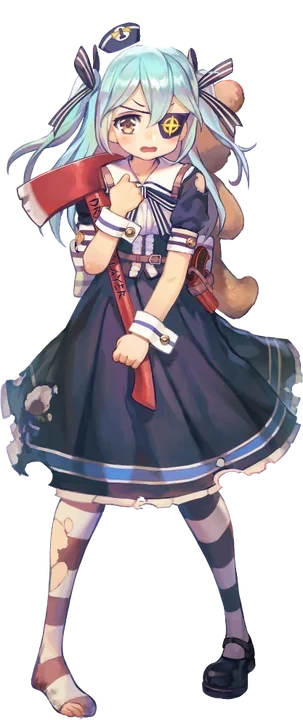
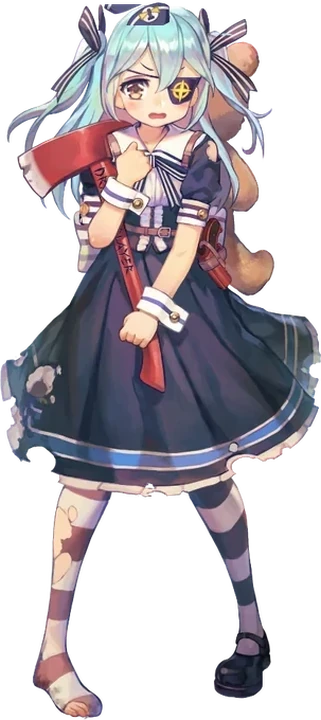
LRL 기본 일러스트: 머리 위에 떠 있던 모자를 원작처럼 머리에 얹음, 캐시 번호 올림

diff --git a/js/formsextra.js b/js/formsextra.js
@@ -2,6 +2,6 @@
 Object.assign(FORMS, {"albatross": {"dam": false, "forms": [{"skin": "NS1", "dam": false, "voice": false, "icon": false}]}, "alexandra": {"dam": false, "forms": [{"skin": "NS2", "dam": false, "voice": false, "icon": false}]}, "constantia": {"dam": false, "forms": [{"skin": "NS0", "dam": false, "voice": false, "icon": false}]}, "erato": {"dam": false, "forms": [{"skin": "NS2", "dam": false, "voice": false, "icon": false}]}, "fallen": {"dam": false, "forms": [{"skin": "RV", "dam": false, "voice": false, "icon": false}]}, "frigga": {"dam": false, "forms": [{"skin": "NS2", "dam": false, "voice": false, "icon": false}]}, "habetrot": {"dam": false, "forms": [{"skin": "NS1", "dam": false, "voice": false, "icon": false}]}, "janghwa": {"dam": false, "forms": [{"skin": "NS1", "dam": false, "voice": false, "icon": false}]}, "khan": {"dam": false, "forms": [{"skin": "NS1", "dam": false, "voice": false, "icon": false}]}, "kunoichizero": {"dam": false, "forms": [{"skin": "NS2", "dam": false, "voice": false, "icon": false}]}, "lrl": {"dam": false, "forms": [{"skin": "NS4", "dam": false, "voice": false, "icon": false}]}, "may": {"dam": false, "forms": [{"skin": "NS2", "dam": false, "voice": false, "icon": false}]}, "mercury": {"dam": false, "forms": [{"skin": "NS1", "dam": false, "voice": false, "icon": false}]}, "muse": {"dam": false, "forms": [{"skin": "NS1", "dam": false, "voice": false, "icon": false}]}, "neodym": {"dam": false, "forms": [{"skin": "NS1", "dam": false, "voice": false, "icon": false}]}, "nightangel": {"dam": false, "forms": [{"skin": "NS2", "dam": false, "voice": false, "icon": false}]}, "pa00el": {"dam": false, "forms": [{"skin": "NS2", "dam": false, "voice": false, "icon": false}]}, "rena": {"dam": false, "forms": [{"skin": "NS1", "dam": false, "voice": false, "icon": false}]}, "salamander": {"dam": false, "forms": [{"skin": "NS1", "dam": false, "voice": false, "icon": false}]}, "saraqael": {"dam": false, "forms": [{"skin": "NS1", "dam": false, "voice": false, "icon": false}]}, "scathy": {"dam": false, "forms": [{"skin": "NS1", "dam": false, "voice": false, "icon": false}]}, "sleipnir": {"dam": false, "forms": [{"skin": "NS2", "dam": false, "voice": false, "icon": false}]}, "sonia": {"dam": false, "forms": [{"skin": "NS1", "dam": false, "voice": false, "icon": false}]}, "stratoangel": {"dam": false, "forms": [{"skin": "NS1", "dam": false, "voice": false, "icon": false}]}});
 Object.assign(FORM_SIZES, {"albatross_1": [720, 719], "alexandra_1": [437, 720], "constantia_1": [449, 720], "erato_1": [225, 720], "fallen_1": [639, 720], "frigga_1": [269, 720], "habetrot_1": [314, 720], "janghwa_1": [577, 720], "khan_1": [321, 720], "kunoichizero_1": [489, 720], "lrl_1": [595, 720], "may_1": [720, 692], "mercury_1": [573, 720], "muse_1": [343, 720], "neodym_1": [581, 720], "nightangel_1": [720, 706], "pa00el_1": [299, 720], "rena_1": [260, 720], "salamander_1": [327, 720], "saraqael_1": [687, 720], "scathy_1": [520, 720], "sleipnir_1": [301, 720], "sonia_1": [323, 720], "stratoangel_1": [717, 720]});
 // 같은 파일명으로 교체한 기본 그림은 캐시를 새로 받는다
-Object.assign(ASSET_REV, {"full/kheshig": 2, "full/cloverace": 2, "full/lemonbeta": 3, "full/ajax": 2, "full/albatross": 2, "full/alexandra": 2, "full/amphitrite": 2, "full/brunhild": 2, "full/constantia": 4, "full/drm": 2, "full/erato": 2, "full/fallen": 2, "full/frigga": 2, "full/glacias": 2, "full/habetrot": 2, "full/janghwa": 2, "full/khan": 2, "full/kunoichizero": 2, "full/lrl": 4, "full/may": 2, "full/melite": 2, "full/mercury": 2, "full/mnemosyne": 2, "full/muse": 2, "full/neodym": 2, "full/nightangel": 2, "full/pa00el": 2, "full/peregrinus": 2, "full/ramiel": 2, "full/rena": 2, "full/sadius": 2, "full/salacia": 2, "full/salamander": 2, "full/saraqael": 2, "full/scarabya": 2, "full/scathy": 2, "full/sirene": 2, "full/sleipnir": 2, "full/sonia": 2, "full/stratoangel": 2, "full/vargr": 2, "full/valkyrie_4_dam": 2, "full/miho_2": 2, "full/hyena_1": 2, "full/hyena_2_dam": 2, "full/alice_2": 2, "full/gnome_2": 2, "full/gnome_2_dam": 2, "full/tyrant_1": 2, "full/goltarion_1": 2, "full/echidna_2": 2, "full/hraesvelgr_2": 2, "full/talonfeather_1": 2, "full/sylphid_1": 2, "full/phoenix_1_dam": 2, "full/phoenix_2_dam": 2, "full/hongryun_1": 2, "full/hongryun_2_dam": 2, "full/eternity_2": 2, "full/eternity_2_dam": 2});
+Object.assign(ASSET_REV, {"full/kheshig": 2, "full/cloverace": 2, "full/lemonbeta": 3, "full/ajax": 2, "full/albatross": 2, "full/alexandra": 2, "full/amphitrite": 2, "full/brunhild": 2, "full/constantia": 4, "full/drm": 2, "full/erato": 2, "full/fallen": 2, "full/frigga": 2, "full/glacias": 2, "full/habetrot": 2, "full/janghwa": 2, "full/khan": 2, "full/kunoichizero": 2, "full/lrl": 5, "full/may": 2, "full/melite": 2, "full/mercury": 2, "full/mnemosyne": 2, "full/muse": 2, "full/neodym": 2, "full/nightangel": 2, "full/pa00el": 2, "full/peregrinus": 2, "full/ramiel": 2, "full/rena": 2, "full/sadius": 2, "full/salacia": 2, "full/salamander": 2, "full/saraqael": 2, "full/scarabya": 2, "full/scathy": 2, "full/sirene": 2, "full/sleipnir": 2, "full/sonia": 2, "full/stratoangel": 2, "full/vargr": 2, "full/valkyrie_4_dam": 2, "full/miho_2": 2, "full/hyena_1": 2, "full/hyena_2_dam": 2, "full/alice_2": 2, "full/gnome_2": 2, "full/gnome_2_dam": 2, "full/tyrant_1": 2, "full/goltarion_1": 2, "full/echidna_2": 2, "full/hraesvelgr_2": 2, "full/talonfeather_1": 2, "full/sylphid_1": 2, "full/phoenix_1_dam": 2, "full/phoenix_2_dam": 2, "full/hongryun_1": 2, "full/hongryun_2_dam": 2, "full/eternity_2": 2, "full/eternity_2_dam": 2});
 // 다시 만든 SD 리그는 캐시를 새로 받는다 (js/sd.js 가 ?r= 를 붙임)
 window.SD_REV = Object.assign(window.SD_REV || {}, { lemongamma: 3, lemonalpha: 3, lemonepsilon: 3, perrault: 2, lamparion: 2 });

diff --git a/index.html b/index.html
@@ -67,46 +67,46 @@
   </div>
   <div class="btn" data-act="menu">MENU</div>
 </div>
-<script src="js/pack.js?v=203"></script>
-<script src="js/sd.js?v=203"></script>
-<script src="js/sd/index.js?v=203"></script>
-<script src="js/assetsizes.js?v=203"></script>
-<script src="js/facing.js?v=203"></script>
-<script src="js/forms.js?v=203"></script>
-<script src="js/skinnames.js?v=203"></script>
-<script src="js/data.js?v=203"></script>
-<script src="js/fximg.js?v=203"></script>
-<script src="js/fx.js?v=203"></script>
-<script src="js/core.js?v=203"></script>
-<script src="js/formsextra.js?v=203"></script>
-<script src="js/ui.js?v=203"></script>
-<script src="js/patchnotes.js?v=203"></script>
-<script src="js/battleanchor-data.js?v=203"></script>
-<script src="js/battleanchors.js?v=203"></script>
-<script src="js/battle.js?v=203"></script>
-<script src="js/battleui.js?v=203"></script>
-<script src="js/fx/_meta.js?v=203"></script>
-<script src="js/fxbake.js?v=203"></script>
-<script src="js/battlefx.js?v=203"></script>
-<script src="js/maps.js?v=203"></script>
-<script src="js/sdfield.js?v=203"></script>
-<script src="js/commander.js?v=203"></script>
-<script src="js/world.js?v=203"></script>
-<script src="js/terrain.js?v=203"></script>
-<script src="js/game.js?v=203"></script>
-<script src="js/league.js?v=203"></script>
-<script src="js/rosterdata.js?v=203"></script>
-<script src="js/sigmoves.js?v=203"></script>
-<script src="js/roster.js?v=203"></script>
-<script src="js/quests.js?v=203"></script>
-<script src="js/skinchips.js?v=203"></script>
-<script src="js/phone.js?v=203"></script>
-<script src="js/mobilefield.js?v=203"></script>
-<script src="js/portraitui.js?v=203"></script>
-<script src="js/townwarp.js?v=203"></script>
-<script src="js/titlelayout.js?v=203"></script>
-<script src="js/battleportrait.js?v=203"></script>
-<script src="js/skillfx.js?v=203"></script>
-<script src="js/crashlog.js?v=203"></script>
+<script src="js/pack.js?v=204"></script>
+<script src="js/sd.js?v=204"></script>
+<script src="js/sd/index.js?v=204"></script>
+<script src="js/assetsizes.js?v=204"></script>
+<script src="js/facing.js?v=204"></script>
+<script src="js/forms.js?v=204"></script>
+<script src="js/skinnames.js?v=204"></script>
+<script src="js/data.js?v=204"></script>
+<script src="js/fximg.js?v=204"></script>
+<script src="js/fx.js?v=204"></script>
+<script src="js/core.js?v=204"></script>
+<script src="js/formsextra.js?v=204"></script>
+<script src="js/ui.js?v=204"></script>
+<script src="js/patchnotes.js?v=204"></script>
+<script src="js/battleanchor-data.js?v=204"></script>
+<script src="js/battleanchors.js?v=204"></script>
+<script src="js/battle.js?v=204"></script>
+<script src="js/battleui.js?v=204"></script>
+<script src="js/fx/_meta.js?v=204"></script>
+<script src="js/fxbake.js?v=204"></script>
+<script src="js/battlefx.js?v=204"></script>
+<script src="js/maps.js?v=204"></script>
+<script src="js/sdfield.js?v=204"></script>
+<script src="js/commander.js?v=204"></script>
+<script src="js/world.js?v=204"></script>
+<script src="js/terrain.js?v=204"></script>
+<script src="js/game.js?v=204"></script>
+<script src="js/league.js?v=204"></script>
+<script src="js/rosterdata.js?v=204"></script>
+<script src="js/sigmoves.js?v=204"></script>
+<script src="js/roster.js?v=204"></script>
+<script src="js/quests.js?v=204"></script>
+<script src="js/skinchips.js?v=204"></script>
+<script src="js/phone.js?v=204"></script>
+<script src="js/mobilefield.js?v=204"></script>
+<script src="js/portraitui.js?v=204"></script>
+<script src="js/townwarp.js?v=204"></script>
+<script src="js/titlelayout.js?v=204"></script>
+<script src="js/battleportrait.js?v=204"></script>
+<script src="js/skillfx.js?v=204"></script>
+<script src="js/crashlog.js?v=204"></script>
 </body>
 </html>
